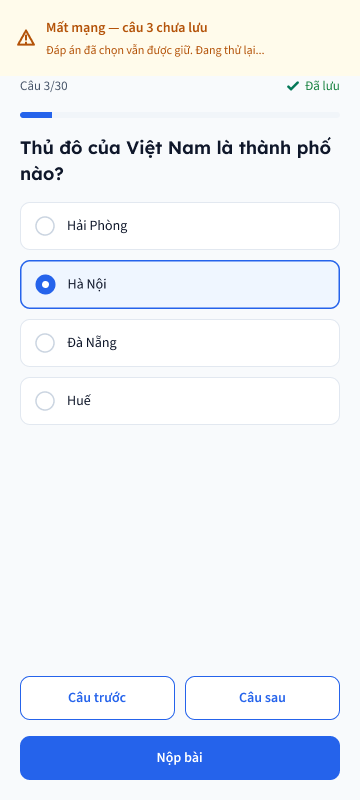
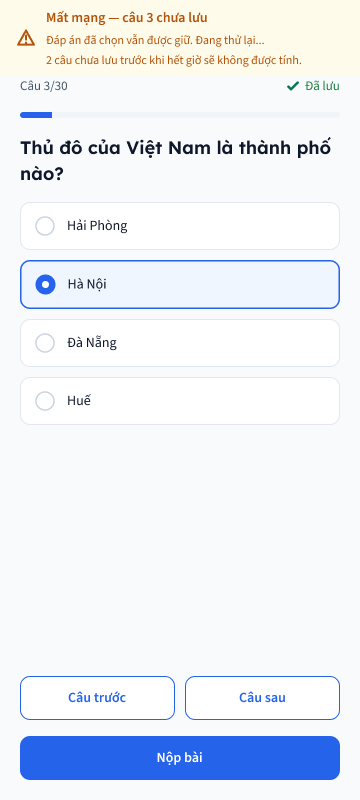
docs: reconcile mentor findings across main and branch

Changed region(s): [[0.1222, 0.0, 0.825, 0.0938]]

diff --git a/docs/reviews/2026-11-28-requesting-code-review.md b/docs/reviews/2026-11-28-requesting-code-review.md
@@ -14,7 +14,7 @@ Mỗi task có implementer và reviewer riêng: Task 1 sạch; Task 2 có 1 vòn
 | # | Mức độ · file:line | Vấn đề | Quyết định |
 |---|---|---|---|
 | 1 | Important · `QuestionBank.tsx:92,110`, `QuestionDetail.tsx:37`, `ExamTable.tsx:48`, `not-found.tsx:10` | 5 `<Link>` inline có `min-h-[44px]` nhưng không áp dụng (non-replaced inline) | **Accepted** — fix `inline-flex items-center` trong `e6f6b30` |
-| 2 | Important · governance | Thiếu AI_LOG entry, file review template, full check output trong PR body | **Accepted** — entry AI_LOG và file này được tạo ngay đây |
+| 2 | Important · governance | Thiếu AI_LOG entry, file review template, full check output trong PR body | **Chưa kiểm chứng một phần** — entry AI_LOG và file review được tạo ngay đây; output đầy đủ đã có trong file review nhưng **PR chưa tồn tại**, nên "trong PR body" chưa kiểm chứng (AGENTS rule 12). Sẽ dán output khi mở PR. |
 | 3 | Minor nâng · `ExamTable.tsx:62`, `results/page.tsx:34`, `QuestionBank.tsx:82` | `<th>` thiếu `scope="col"` | **Accepted** — fix trong `e6f6b30` |
 | 4 | Optional · `ExamCreateForm.tsx:58` | Hint VR-02…VR-09 chưa có `aria-describedby` | **Deferred** — controller chấp nhận, ghi rõ ở đây |
 | 5 | Minor · `QuestionBank.tsx:20` | Search phân biệt hoa/thường và dấu | **Deferred** — mock-only filter |
@@ -38,6 +38,7 @@ Mỗi task có implementer và reviewer riêng: Task 1 sạch; Task 2 có 1 vòn
 | 5 link có inline-flex + min-h-[44px] | `ALL_FIVE_LINKS_OK=true` trong final fix report | ✅ |
 | 3 bảng có scope="col" | `ALL_THREE_TABLES_SCOPED=true` | ✅ |
 | Bộ check sạch | Output đầy đủ dưới đây | EXIT=0 cả 7 lệnh |
+| Output trong PR body | PR chưa mở | chưa kiểm chứng |
 | `npm test`, `test:e2e` | Script chưa có | chưa kiểm chứng |
 | Browser/axe/360px | Không automation | chưa kiểm chứng |
 

diff --git a/docs/DEPLOY.md b/docs/DEPLOY.md
@@ -65,7 +65,7 @@ Branch protection trên `main` **đã bật** ngày 2026-11-26: 1 approval revie
 
 Ngoại lệ đã xảy ra: PR #7–#14 được merge với 0 review bằng quyền admin của tác giả, nên cấu hình trên không phản ánh cách các PR đó vào `main`. Mọi tuyên bố về branch protection phải nêu rõ ngoại lệ này.
 
-Kiểm chứng phải chạy từ trạng thái sạch: `rm -rf .next && npm ci` rồi mới chạy bộ check. Ở trạng thái sạch HEAD `39d4c2d`, `npm run typecheck` trả `EXIT=2` (`TS2304: Cannot find name 'LayoutProps'`) vì script hiện là `tsc --noEmit` và type route chỉ có sau build. Script phải đổi thành `next typegen && tsc --noEmit` trước khi coi là đạt. ESLint 10 đang xung đột peer với plugin chỉ hỗ trợ tới 9; đưa về `^9` và cấu hình Dependabot `ignore` major cho `typescript`/`eslint` cho tới khi có CI (chưa kiểm chứng).
+Kiểm chứng phải chạy từ trạng thái sạch: `rm -rf .next && npm ci` rồi mới chạy bộ check. **Lịch sử:** ở HEAD `39d4c2d`, script `tsc --noEmit` trả `EXIT=2` (`TS2304: Cannot find name 'LayoutProps'`) và ESLint 10 xung đột peer. **Hiện tại:** script là `next typegen && tsc --noEmit`, ESLint đã về `^9`, Dependabot `ignore` major cho `typescript`/`eslint`. Bộ check từ trạng thái sạch đã `EXIT=0`; output đầy đủ nằm trong [`2026-11-27-mentor-document-state.md`](reviews/2026-11-27-mentor-document-state.md) mục "Bổ sung sau fix". `npm test` và `npm run test:e2e` chưa có script — chưa kiểm chứng.
 
 ---
 
@@ -122,7 +122,7 @@ npm run db:seed               # dữ liệu demo local/test
 npm run db:create-admin       # tạo admin đầu tiên cho production
 ```
 
-Các script này chưa có trong `package.json`; sẽ thêm ở Mốc 2.
+Các script này chưa có trong `package.json`; sẽ thêm ở giai đoạn 2.
 
 ---
 

diff --git a/docs/MOCKUPS.md b/docs/MOCKUPS.md
@@ -73,7 +73,8 @@ A-R1 và A-R9 đã xử lý: S6 dùng chung một nội dung "Không tìm thấy
 - **Điều hướng nhanh giữa các câu:** trên mobile mở bottom sheet từ nút lưới trên thanh làm bài; trên desktop là sidebar phải luôn hiển thị. Grid 30 nút 44×44, 4 trạng thái: đã trả lời (xanh đặc), đang xem (viền xanh + nền xanh nhạt), chưa trả lời (xám), đánh dấu (chấm cam).
 - **Nộp bài:** nút Nộp bài mở dialog xác nhận, cảnh báo "Còn 2 câu chưa trả lời (Câu 7 và Câu 12)" với hai lựa chọn "Làm tiếp" / "Nộp bài". Theo SPEC, confirmation chỉ bắt buộc khi còn câu trống.
 - **Điểm và đáp án đúng:** điểm hiện ngay sau khi nộp (FR-23). `D6` / `S7` minh họa đề chưa đóng nhưng điểm đã có; chỉ **đáp án đúng** bị khóa đến khi đề đóng và bật `allowReview` (FR-26, D-11, D-19). Trạng thái hiển thị: "Đã nộp · Điểm đã có · Chờ mở đáp án".
-- **Trạng thái còn lại:** danh sách đề trống, ngân hàng trống, lỗi tải + Thử lại, mất mạng (SPEC §10.2: "Mất mạng — câu 3 chưa lưu. Đáp án đã chọn vẫn được giữ."), hết giờ tự nộp, 404 khi không có quyền (D-15).
+- **Trạng thái còn lại:** danh sách đề trống, ngân hàng trống, lỗi tải + Thử lại, mất mạng (SPEC §10.2: "Mất mạng — câu 3 chưa lưu. Đáp án đã chọn vẫn được giữ."), hết giờ tự nộp, 404 cho id lạ / bản ghi người khác / sai vai trò (D-15).
+- **Offline × hết giờ (D-21):** `S4` hiện "2 câu chưa lưu trước khi hết giờ sẽ không được tính"; `S5` hiện "2 câu chưa lưu trước khi hết giờ không được tính." K2 thắng K4: đáp án chọn lúc offline nhưng đẩy lên sau `expiresAt` không được tính.
 
 ## Design tokens
 

diff --git a/docs/reviews/2026-11-27-mentor-document-state.md b/docs/reviews/2026-11-27-mentor-document-state.md
@@ -25,7 +25,7 @@ protected=true, reviews=1, enforce_admins=true, force_pushes=false, contexts=[]
 | A-R3 | Blocker | Docs ghi protection 1 approval nhưng 13 PR merge với 0 review | **Accepted** — ghi rõ ngoại lệ admin override trong `DEPLOY.md` và `HANDOVER.md`; API hiện vẫn trả cấu hình như docs. |
 | A-R4 | Blocker | Đặt tên 5 giai đoạn là "Mốc 1–5" | **Accepted** — đổi thành "Giai đoạn 1–5" trong README/ARCHITECTURE/HANDOVER/SPEC; giữ 3 mốc theo đề. |
 | A-R5 | Blocker | Đã dùng 14 PR, vượt ngân sách | **Accepted** — cập nhật SPEC §13 với thực tế và kế hoạch PR từ `main` mới nhất, gom Dependabot. |
-| A-R6 | Blocker | ESLint 10 peer conflict; docs lệch phiên bản | **Accepted** — README/ARCHITECTURE ghi đúng ESLint 10, React 19.3.1; đưa rule "không merge major khi chưa có CI" vào AGENTS. Chưa hạ version (ngoài phạm vi docs). |
+| A-R6 | Blocker | ESLint 10 peer conflict; docs lệch phiên bản | **Accepted** — ban đầu README/ARCHITECTURE ghi đúng ESLint 10; sau đó PR #14 hạ về ESLint 9 theo khuyến nghị, docs hiện ghi ESLint 9 và React 19.3.1; rule "không merge major khi chưa có CI" nằm trong AGENTS. |
 | A-R7 | Blocker | K4 × K2 chưa ghi kết quả khi gửi muộn | **Accepted** — D-21 bổ sung luật K2 thắng K4, thông báo UI và dọn IndexedDB. |
 | A-R8 | Blocker | FR-19/truy vết K4 chưa có ca reload offline | **Accepted** — cập nhật FR-19 và bảng truy vết K4. |
 | A-R9 | Blocker | S7 thiếu số điểm | **Ghi nhận là chưa đạt** trong `MOCKUPS.md`; cần sửa ảnh. |

diff --git a/docs/SPEC.md b/docs/SPEC.md
@@ -1,6 +1,6 @@
 # ĐẶC TẢ SẢN PHẨM — SITE THI TRẮC NGHIỆM ONLINE
 
-> **Trạng thái:** Bản nháp Mốc 1, chờ mentor duyệt. Chưa có mã tính năng.
+> **Trạng thái:** Bản nháp Mốc 1, chờ mentor duyệt. Đã có scaffold và mock UI cho 3 vai trò trên nhánh phát triển; chưa có Prisma, authentication, scoring hay CI.
 > **Ngày:** 2026-11-26
 > **Nguồn:** `Software Requirements Specification Online Multiple-Choice Exam Site.md` (SRS v0.1) và brief `de-bai-site-trac-nghiem.html`.
 > **Tài liệu liên quan:** [`REQUIREMENTS.md`](REQUIREMENTS.md), [`ARCHITECTURE.md`](ARCHITECTURE.md), [`ERD.md`](ERD.md), [`PERMISSIONS.md`](PERMISSIONS.md), [`SECURITY.md`](SECURITY.md).
@@ -352,7 +352,7 @@ Ghi chú giao diện:
 
 Đối chiếu mục 6 của brief:
 
-- [ ] (Khi có script ở Mốc 2) Clone mới: `npm ci` → làm theo README → `npm test` và `npm run test:e2e` đều pass. Hiện chưa kiểm chứng.
+- [ ] (Khi có script ở giai đoạn 2) Clone mới: `npm ci` → làm theo README → `npm test` và `npm run test:e2e` đều pass. Hiện chưa kiểm chứng.
 - [ ] E2E có đủ 4 tình huống: làm bài bình thường, tải lại trang giữa chừng, mất mạng rồi có lại, hết giờ.
 - [ ] Có test chứng minh: không lộ đáp án (K1), không kéo dài thời gian (K2), nộp đồng thời chỉ chấm một lần (K3), sửa câu hỏi không đổi điểm cũ (K5).
 - [ ] Hàm chấm điểm có unit test bảng đủ các trường hợp của luật đã chọn (K7).

diff --git a/README.md b/README.md
@@ -4,7 +4,7 @@ Website cho trung tâm đào tạo tổ chức thi trắc nghiệm online. Giáo
 
 Repo: <https://github.com/khanhtung2410/test-site>
 
-> **Trạng thái:** scaffold Next.js 16.4.6 và các script `typecheck`, `format:check`, `check:language` đã có trong repo. Prisma, authentication, test và CI vẫn là kế hoạch giai đoạn 2. Xem [`docs/HANDOVER.md`](docs/HANDOVER.md) để biết việc còn lại.
+> **Trạng thái:** scaffold Next.js 16.4.6, các script kiểm tra và các trang mock UI cho cả 3 vai trò (học viên/giáo viên/admin) đã có trên nhánh phát triển; chưa có Prisma, authentication, test hay CI. Đây là giai đoạn 2, không phải Mốc 2 theo đề (Mốc 2 là demo làm bài). Xem [`docs/HANDOVER.md`](docs/HANDOVER.md).
 
 ---
 
@@ -157,7 +157,7 @@ Sau khi chạy `npm run db:seed` (giai đoạn 2), các tài khoản demo:
 | `npm run check:language` | Có | Kiểm tra quy tắc chữ Việt/Anh |
 | `npm run audit:production` | Kế hoạch | `npm audit --omit=dev --audit-level=high` |
 
-Tóm tắt `EXIT=` nằm trong `AI_LOG.md` mục ngày 2026-11-26; output đầy đủ nằm trong PR #2 và PR #3 mục Testing.
+Tóm tắt `EXIT=` nằm trong `AI_LOG.md` mục ngày 2026-11-26; output đầy đủ từ trạng thái sạch nằm trong [`docs/reviews/2026-11-27-mentor-document-state.md`](docs/reviews/2026-11-27-mentor-document-state.md) mục "Bổ sung sau fix".
 
 ---
 

diff --git a/docs/ARCHITECTURE.md b/docs/ARCHITECTURE.md
@@ -10,7 +10,7 @@
 
 Tài liệu này đủ để một lập trình viên khác tiếp tục dự án mà không cần hỏi lại người viết: biết code nằm ở đâu, luồng đi qua những tầng nào, chỗ nào dễ sai và test nào bảo vệ.
 
-**Giới hạn:** scaffold `package.json`, `src/` và script kiểm tra đã có. Prisma, authentication, test hay CI chưa có; các đường dẫn feature dưới đây là đích đến của giai đoạn 2–4.
+**Giới hạn:** scaffold `package.json`, script kiểm tra và mock UI click-through cho 3 vai trò đã có trên nhánh phát triển. Prisma, authentication, test hay CI chưa có; phần còn lại của các đường dẫn feature dưới đây là đích đến của giai đoạn 2–4.
 
 ---
 

diff --git a/docs/superpowers/specs/2026-11-27-student-mock-pages-design.md b/docs/superpowers/specs/2026-11-27-student-mock-pages-design.md
@@ -9,7 +9,7 @@
 
 Dựng các trang Next.js thật cho **luồng học viên** để có bản click-through đối chiếu wireframe trước khi có auth, Prisma và Server Action. Dữ liệu là mock, nhưng DTO phải đúng shape để giai đoạn sau chỉ thay nguồn dữ liệu, không đổi component.
 
-Đây là bước đầu của Mốc 2 theo `ARCHITECTURE.md`, không phải sản phẩm hoàn chỉnh. Không triển khai K1–K8 ở mức server trong đợt này.
+Đây là bước đầu của Giai đoạn 2 theo `ARCHITECTURE.md`, không phải sản phẩm hoàn chỉnh. Mốc 2 theo đề là demo làm bài, không phải nền tảng. Không triển khai K1–K8 ở mức server trong đợt này.
 
 ## 2. Mục tiêu
 

diff --git a/docs/superpowers/plans/2026-11-27-student-mock-pages.md b/docs/superpowers/plans/2026-11-27-student-mock-pages.md
@@ -6,7 +6,7 @@
 
 **Architecture:** Route App Router với route groups `(auth)` và `(student)`; mỗi feature tự chứa `mocks/` và component; DTO dùng chung đặt ở `features/shared/domain/types.ts`. Không có auth/Prisma/Server Action; source dữ liệu duy nhất là mock module có type.
 
-**Tech Stack:** Next.js 16.4.6 App Router, React 19, TypeScript 5, Tailwind 4, ESLint 10, Prettier 3.
+**Tech Stack:** Next.js 16.4.6 App Router, React 19, TypeScript 5, Tailwind 4, ESLint 9, Prettier 3.
 
 **Spec:** `docs/superpowers/specs/2026-11-27-student-mock-pages-design.md`
 

diff --git a/docs/CONTRIBUTING.md b/docs/CONTRIBUTING.md
@@ -68,7 +68,7 @@ test/*      ← chỉ test
 src/app/          ← route, page, layout, route handler
 src/features/     ← domain: components/, actions/, queries/, lib/, mocks/
 src/constants/    ← role, trạng thái, nhãn
-prisma/           ← schema, migrations, seed (not-yet, kế hoạch Mốc 2)
+prisma/           ← schema, migrations, seed (not-yet, kế hoạch giai đoạn 2)
 public/           ← static assets
 docs/             ← tài liệu dự án
 ```
